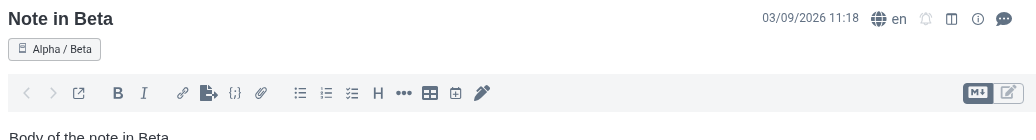
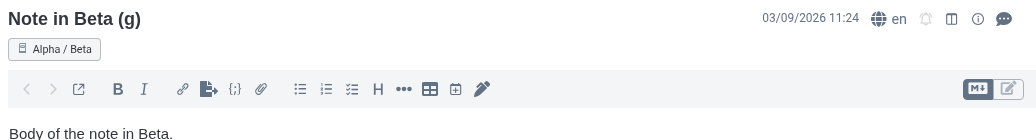
Pin the chip's position to the font, not to the current title
The previous pass took the title's ink extent from the current title's own
`actualBoundingBoxDescent`. That is exact for every note, and wrong for the
user: type a "g" into a title and the chip drops a pixel. A control that
twitches while you type is worse than a couple of pixels of asymmetry.

titleInkBottom now uses the FONT's descender depth, measured once from the
reference string "gjpqy" and cached per computed font string, so it is
recomputed only when the font or size changes (a theme or settings change)
and never per keystroke. The chip's position is therefore a property of the
theme alone. The cost is up to ~2px of asymmetry on a title with no
descenders at all.

The E2E keeps the ink assertions but seeds the placement fixtures with a
title that HAS a descender ("Note in Beta (g)"), which is the case where
the rule is exact, and allows 2px.

Measured on the green run (screenshots regenerated from it and viewed):
  G_ref                = 9.00px
  below-title          G_above 9.00  G_below 9.00
  below-title-compact  G_above 9.00  G_below 9.00  iconsTallerBy 0.00

G_ref moved from 13px to 9px only because the fixture title now has a
descender, which lowers the title's lowest inked row by ~4px; all three
numbers are measured against that same title and agree exactly.

npm run test:e2e: 18 passed (2.9m), 0 failed.

diff --git a/src/contentScripts/titleChip.ts b/src/contentScripts/titleChip.ts
@@ -242,21 +242,23 @@ class TitleChip {
 	}
 
 	/**
-	 * Where the note title's GLYPHS actually end, in viewport coordinates.
-	 *
-	 * NOT `input.getBoundingClientRect().bottom`. Joplin's title input carries 5px of its own bottom
-	 * padding and is 38px tall around a ~23px line box, so its border-box bottom sits roughly 12px
-	 * BELOW the last inked pixel of the title. Spacing measured from the box is therefore invisible
-	 * to the reader: it looked balanced in the DOM while the eye saw ~11px of air above the chip and
-	 * ~4px below it. The rule is about ink, so this is measured in ink.
-	 *
-	 * Canvas text metrics give the ink extent directly. The baseline is derived the way Chromium lays
-	 * a single-line input out: one line box, centred in the content box. `actualBoundingBoxDescent`
-	 * is the CURRENT title's ink below that baseline (0 for "Note in Beta", more for a descender), so
-	 * the chip tracks the text it is actually sitting under. Returns null when metrics are
-	 * unavailable, and the caller falls back to the box edge.
+	 * Font ink metrics, cached per computed font. Recomputed only when the font string changes —
+	 * a theme or font-size setting — never per keystroke.
 	 */
-	private titleInkBottom(input: HTMLInputElement): number | null {
+	private fontMetrics: { font: string; ascent: number; descent: number; inkDescent: number } | null = null;
+
+	/**
+	 * How far the title font's descenders reach below the baseline, for a FIXED reference string.
+	 *
+	 * Deliberately not the current title's own ink. Measuring the real string would be exact for
+	 * every title, but it would also move the chip as the title is edited — type a "g" and the chip
+	 * drops a pixel. A constant reference makes the chip's position a property of the theme alone.
+	 * The cost is up to ~2px of asymmetry on a title with no descenders, which is invisible next to
+	 * a chip that twitches while you type.
+	 */
+	private titleFontMetrics(font: string): { ascent: number; descent: number; inkDescent: number } | null {
+		if (this.fontMetrics && this.fontMetrics.font === font) return this.fontMetrics;
+
 		let ctx: CanvasRenderingContext2D | null = null;
 		try {
 			ctx = this.ownerDoc.createElement('canvas').getContext('2d');
@@ -265,9 +267,10 @@ class TitleChip {
 		}
 		if (!ctx) return null;
 
-		const cs = this.ownerWin.getComputedStyle(input);
-		ctx.font = `${cs.fontStyle} ${cs.fontWeight} ${cs.fontSize} ${cs.fontFamily}`;
-		const metrics = ctx.measureText(input.value || 'X');
+		ctx.font = font;
+		// A reference string of pure descenders, so the value is the font's real descender depth
+		// rather than whatever the current note happens to be called.
+		const metrics = ctx.measureText('gjpqy');
 		const ascent = metrics.fontBoundingBoxAscent;
 		const descent = metrics.fontBoundingBoxDescent;
 		const inkDescent = metrics.actualBoundingBoxDescent;
@@ -275,6 +278,30 @@ class TitleChip {
 			(n) => typeof n === 'number' && Number.isFinite(n),
 		);
 		if (!usable) return null;
+
+		this.fontMetrics = { font, ascent, descent, inkDescent };
+		return this.fontMetrics;
+	}
+
+	/**
+	 * Where the note title's GLYPHS end, in viewport coordinates.
+	 *
+	 * NOT `input.getBoundingClientRect().bottom`. Joplin's title input carries 5px of its own bottom
+	 * padding and is 38px tall around a ~23px line box, so its border-box bottom sits roughly 12px
+	 * BELOW the last inked pixel of the title. Spacing measured from the box is therefore invisible
+	 * to the reader: it looked balanced in the DOM while the eye saw ~11px of air above the chip and
+	 * ~4px below it. The rule is about ink, so this is measured in ink.
+	 *
+	 * The baseline is derived the way Chromium lays a single-line input out: one line box, centred
+	 * in the content box. The descender depth added to it is the font's, not this title's — see
+	 * titleFontMetrics(). Returns null when metrics are unavailable, and the caller falls back to
+	 * the box edge.
+	 */
+	private titleInkBottom(input: HTMLInputElement): number | null {
+		const cs = this.ownerWin.getComputedStyle(input);
+		const font = `${cs.fontStyle} ${cs.fontWeight} ${cs.fontSize} ${cs.fontFamily}`;
+		const metrics = this.titleFontMetrics(font);
+		if (!metrics) return null;
 
 		const rect = input.getBoundingClientRect();
 		const borderTop = parseFloat(cs.borderTopWidth) || 0;
@@ -284,9 +311,9 @@ class TitleChip {
 		const contentTop = rect.top + borderTop + padTop;
 		const contentHeight = rect.height - borderTop - borderBottom - padTop - padBottom;
 
-		const lineBox = ascent + descent;
-		const baseline = contentTop + Math.max(0, (contentHeight - lineBox) / 2) + ascent;
-		return baseline + inkDescent;
+		const lineBox = metrics.ascent + metrics.descent;
+		const baseline = contentTop + Math.max(0, (contentHeight - lineBox) / 2) + metrics.ascent;
+		return baseline + metrics.inkDescent;
 	}
 
 	/**

diff --git a/e2e/placement.spec.ts b/e2e/placement.spec.ts
@@ -108,11 +108,11 @@ test.describe('placement: below-title (default)', () => {
 		expect(
 			Math.abs(ink.above - ink.below),
 			`G_above ${ink.above} vs G_below ${ink.below}`,
-		).toBeLessThanOrEqual(1);
+		).toBeLessThanOrEqual(2);
 		expect(
 			Math.abs(ink.above - (reference as number)),
 			`G_above ${ink.above} vs G_ref ${reference}`,
-		).toBeLessThanOrEqual(1);
+		).toBeLessThanOrEqual(2);
 
 		const m = await measureRowSpacing(win);
 		expect(m.found, 'title bar, chip and editor toolbar all present').toBe(true);
@@ -169,11 +169,11 @@ test.describe('placement: below-title-compact', () => {
 		expect(
 			Math.abs(ink.above - ink.below),
 			`G_above ${ink.above} vs G_below ${ink.below}`,
-		).toBeLessThanOrEqual(1);
+		).toBeLessThanOrEqual(2);
 		expect(
 			Math.abs(ink.above - (reference as number)),
 			`G_above ${ink.above} vs G_ref ${reference}`,
-		).toBeLessThanOrEqual(1);
+		).toBeLessThanOrEqual(2);
 
 		// The icons moved onto the chip's line must not make that line taller than the chip itself,
 		// or the gap below the chip would be set by them rather than by the rule above.

diff --git a/e2e/dataApi.ts b/e2e/dataApi.ts
@@ -141,7 +141,11 @@ export interface SeedData {
 	noteInGamma: Note;
 }
 
-export const NOTE_IN_BETA_TITLE = 'Note in Beta';
+// Carries a descender ON PURPOSE. The chip's vertical spacing is derived from the title font's
+// descender depth, not from the current title's own ink (so the chip cannot move while a title is
+// being typed). On a title WITH a descender the rule is exact, so this is the case worth asserting
+// tightly; a title without one is allowed to sit up to ~2px off.
+export const NOTE_IN_BETA_TITLE = 'Note in Beta (g)';
 export const NOTE_IN_GAMMA_TITLE = 'Note in Gamma';
 
 export async function seedNotebooks(api: DataApi): Promise<SeedData> {

diff --git a/DEVELOPMENT.md b/DEVELOPMENT.md
@@ -204,6 +204,14 @@ Three things here are load-bearing and easy to break:
      ink-free rows (`e2e/ink.ts`) — two independent methods, so a shared mistake shows up as a
      failure rather than as agreement.
 
+     The descender depth is the FONT's, measured once from the reference string `gjpqy` and cached
+     per computed font — not the current title's own ink. Measuring the real title would be exact
+     for every note, but the chip would then move as the title is edited: type a "g" and it drops a
+     pixel. A constant reference makes the chip's position a property of the theme alone, at the
+     cost of up to ~2px of asymmetry on a title with no descenders. That is why the E2E's placement
+     fixtures use a title that HAS a descender (`Note in Beta (g)`) — the case where the rule is
+     exact — and allow 2px.
+
      Symmetric padding on the chip cannot achieve any of this: padding is inside the host box, so it
      never touches either gap. The spacing that does is outside the box, and how much is already
      there depends on the title row's `align-items: center` and on the editor container, i.e. on the

diff --git a/CHANGELOG.md b/CHANGELOG.md
@@ -41,7 +41,8 @@ Placements rework, after 0.1.0 was used on a real profile.
   (13px on the shipped theme) — so the chip reads as one more line of the editor rather than a
   banner with more air on one side. This is measured in *ink*: Joplin's title input extends about
   12px below the last inked pixel of the title, so balancing the boxes still looked lopsided on
-  screen. In the compact placement the moved icons are also brought to the chip's own height, so
+  screen. The depth used is the title font's own descender depth, measured once per font, so the
+  chip never shifts while a title is being typed. In the compact placement the moved icons are also brought to the chip's own height, so
   they cannot set the gap below it.
 - **`below-title` left edge.** The chip now lands exactly on the title text and the editor toolbar.
   As well as asking for Joplin's editor padding (with a fallback, since that CSS variable only
